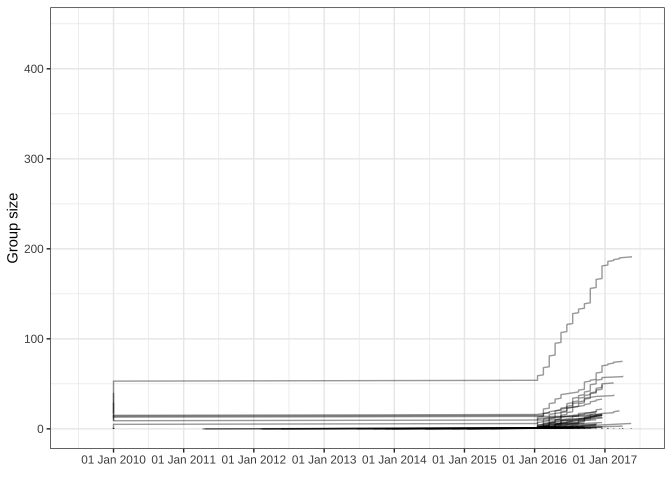
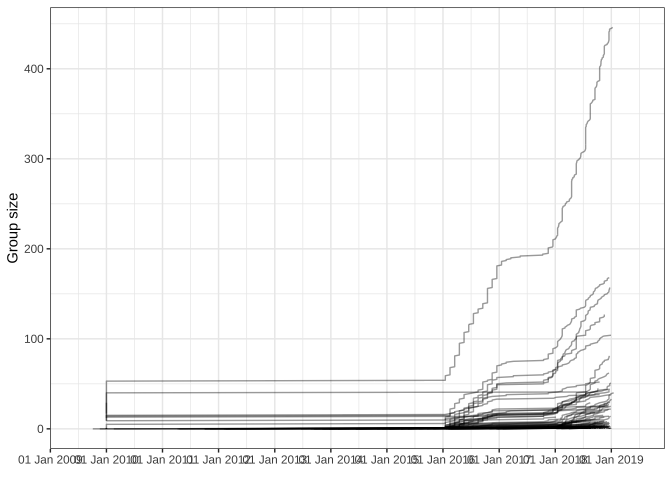
update.

diff --git a/Analyses/03_import_analysis.md b/Analyses/03_import_analysis.md
@@ -53,7 +53,7 @@ LineageHomology::lineage_growth_cumulative(linfo_AUS,datelims=c("2016-07-01","20
 ``` r
 name_date_USA = name_date[name_date$name%in%usa_tips,]
 linfo_USA = lineage_info(Result_USA,name_date = name_date_USA)
-LineageHomology::lineage_growth_cumulative(linfo_USA,datelims=c("2009-07-01","2017-06-15","1 year"))
+LineageHomology::lineage_growth_cumulative(linfo_USA,datelims=c("2009-07-01","2019-06-15","1 year"))
 ```
 
 ![](03_import_analysis_files/figure-gfm/unnamed-chunk-4-3.png)<!-- -->
